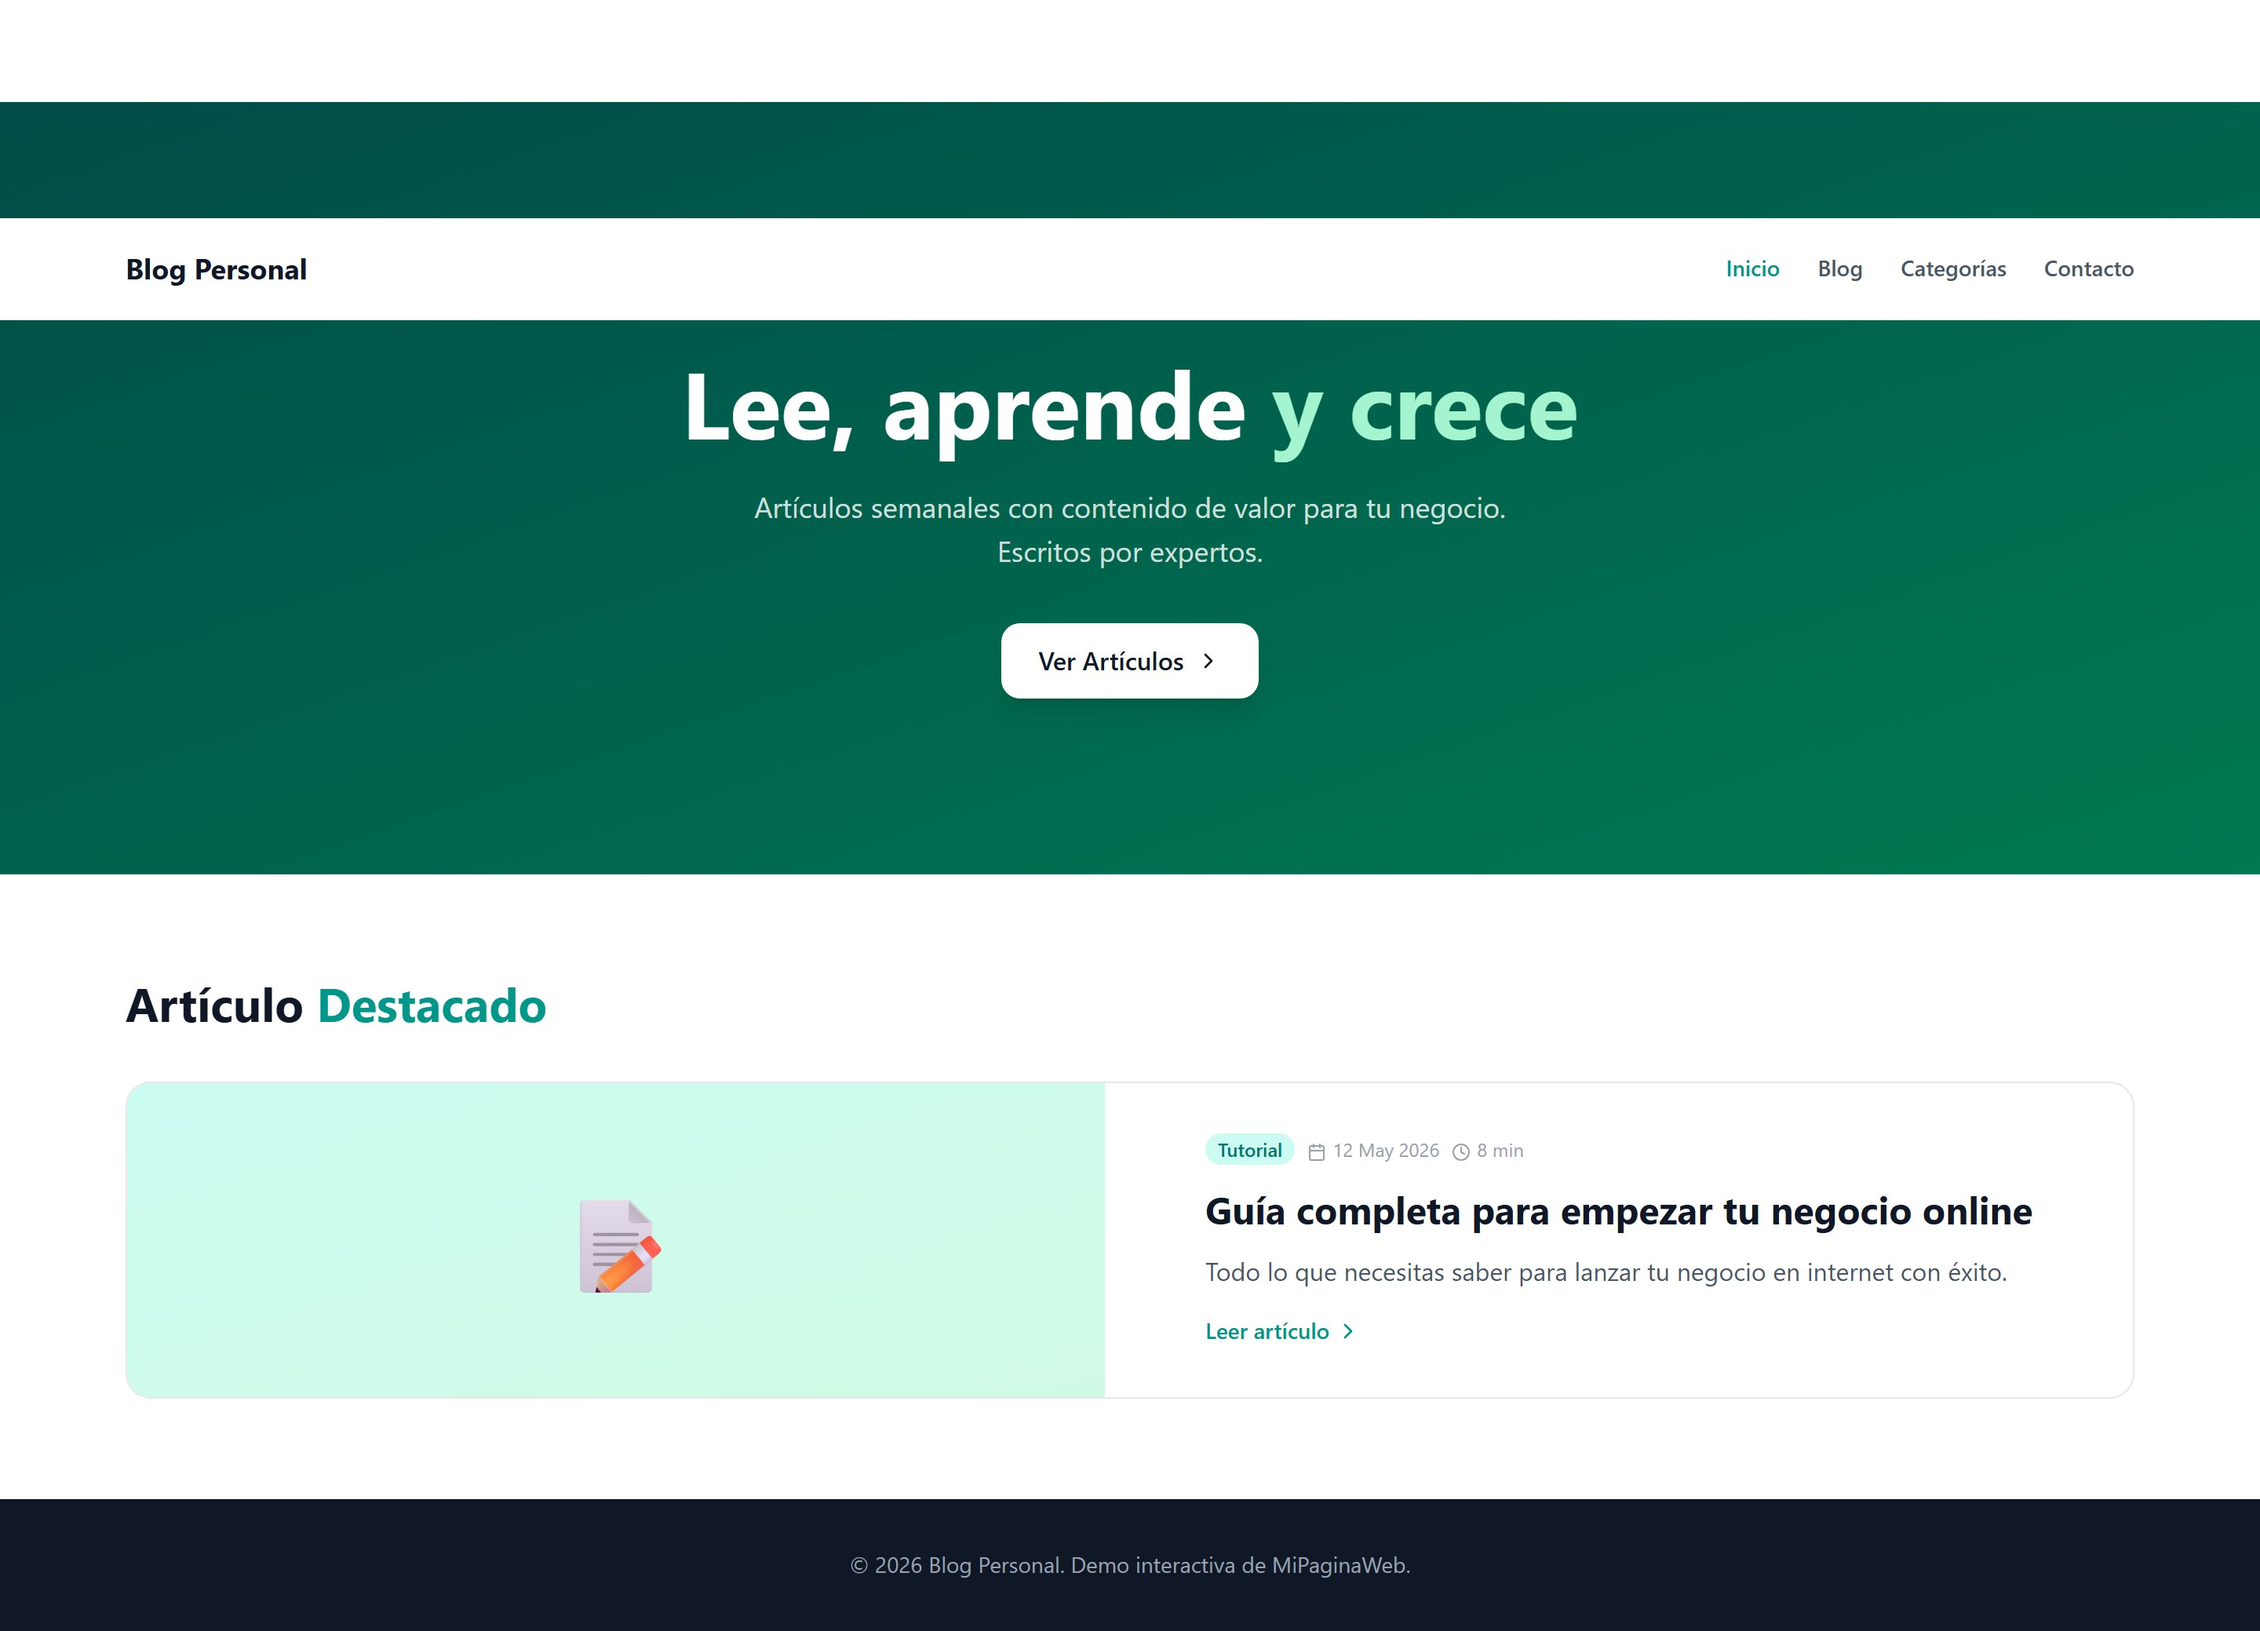
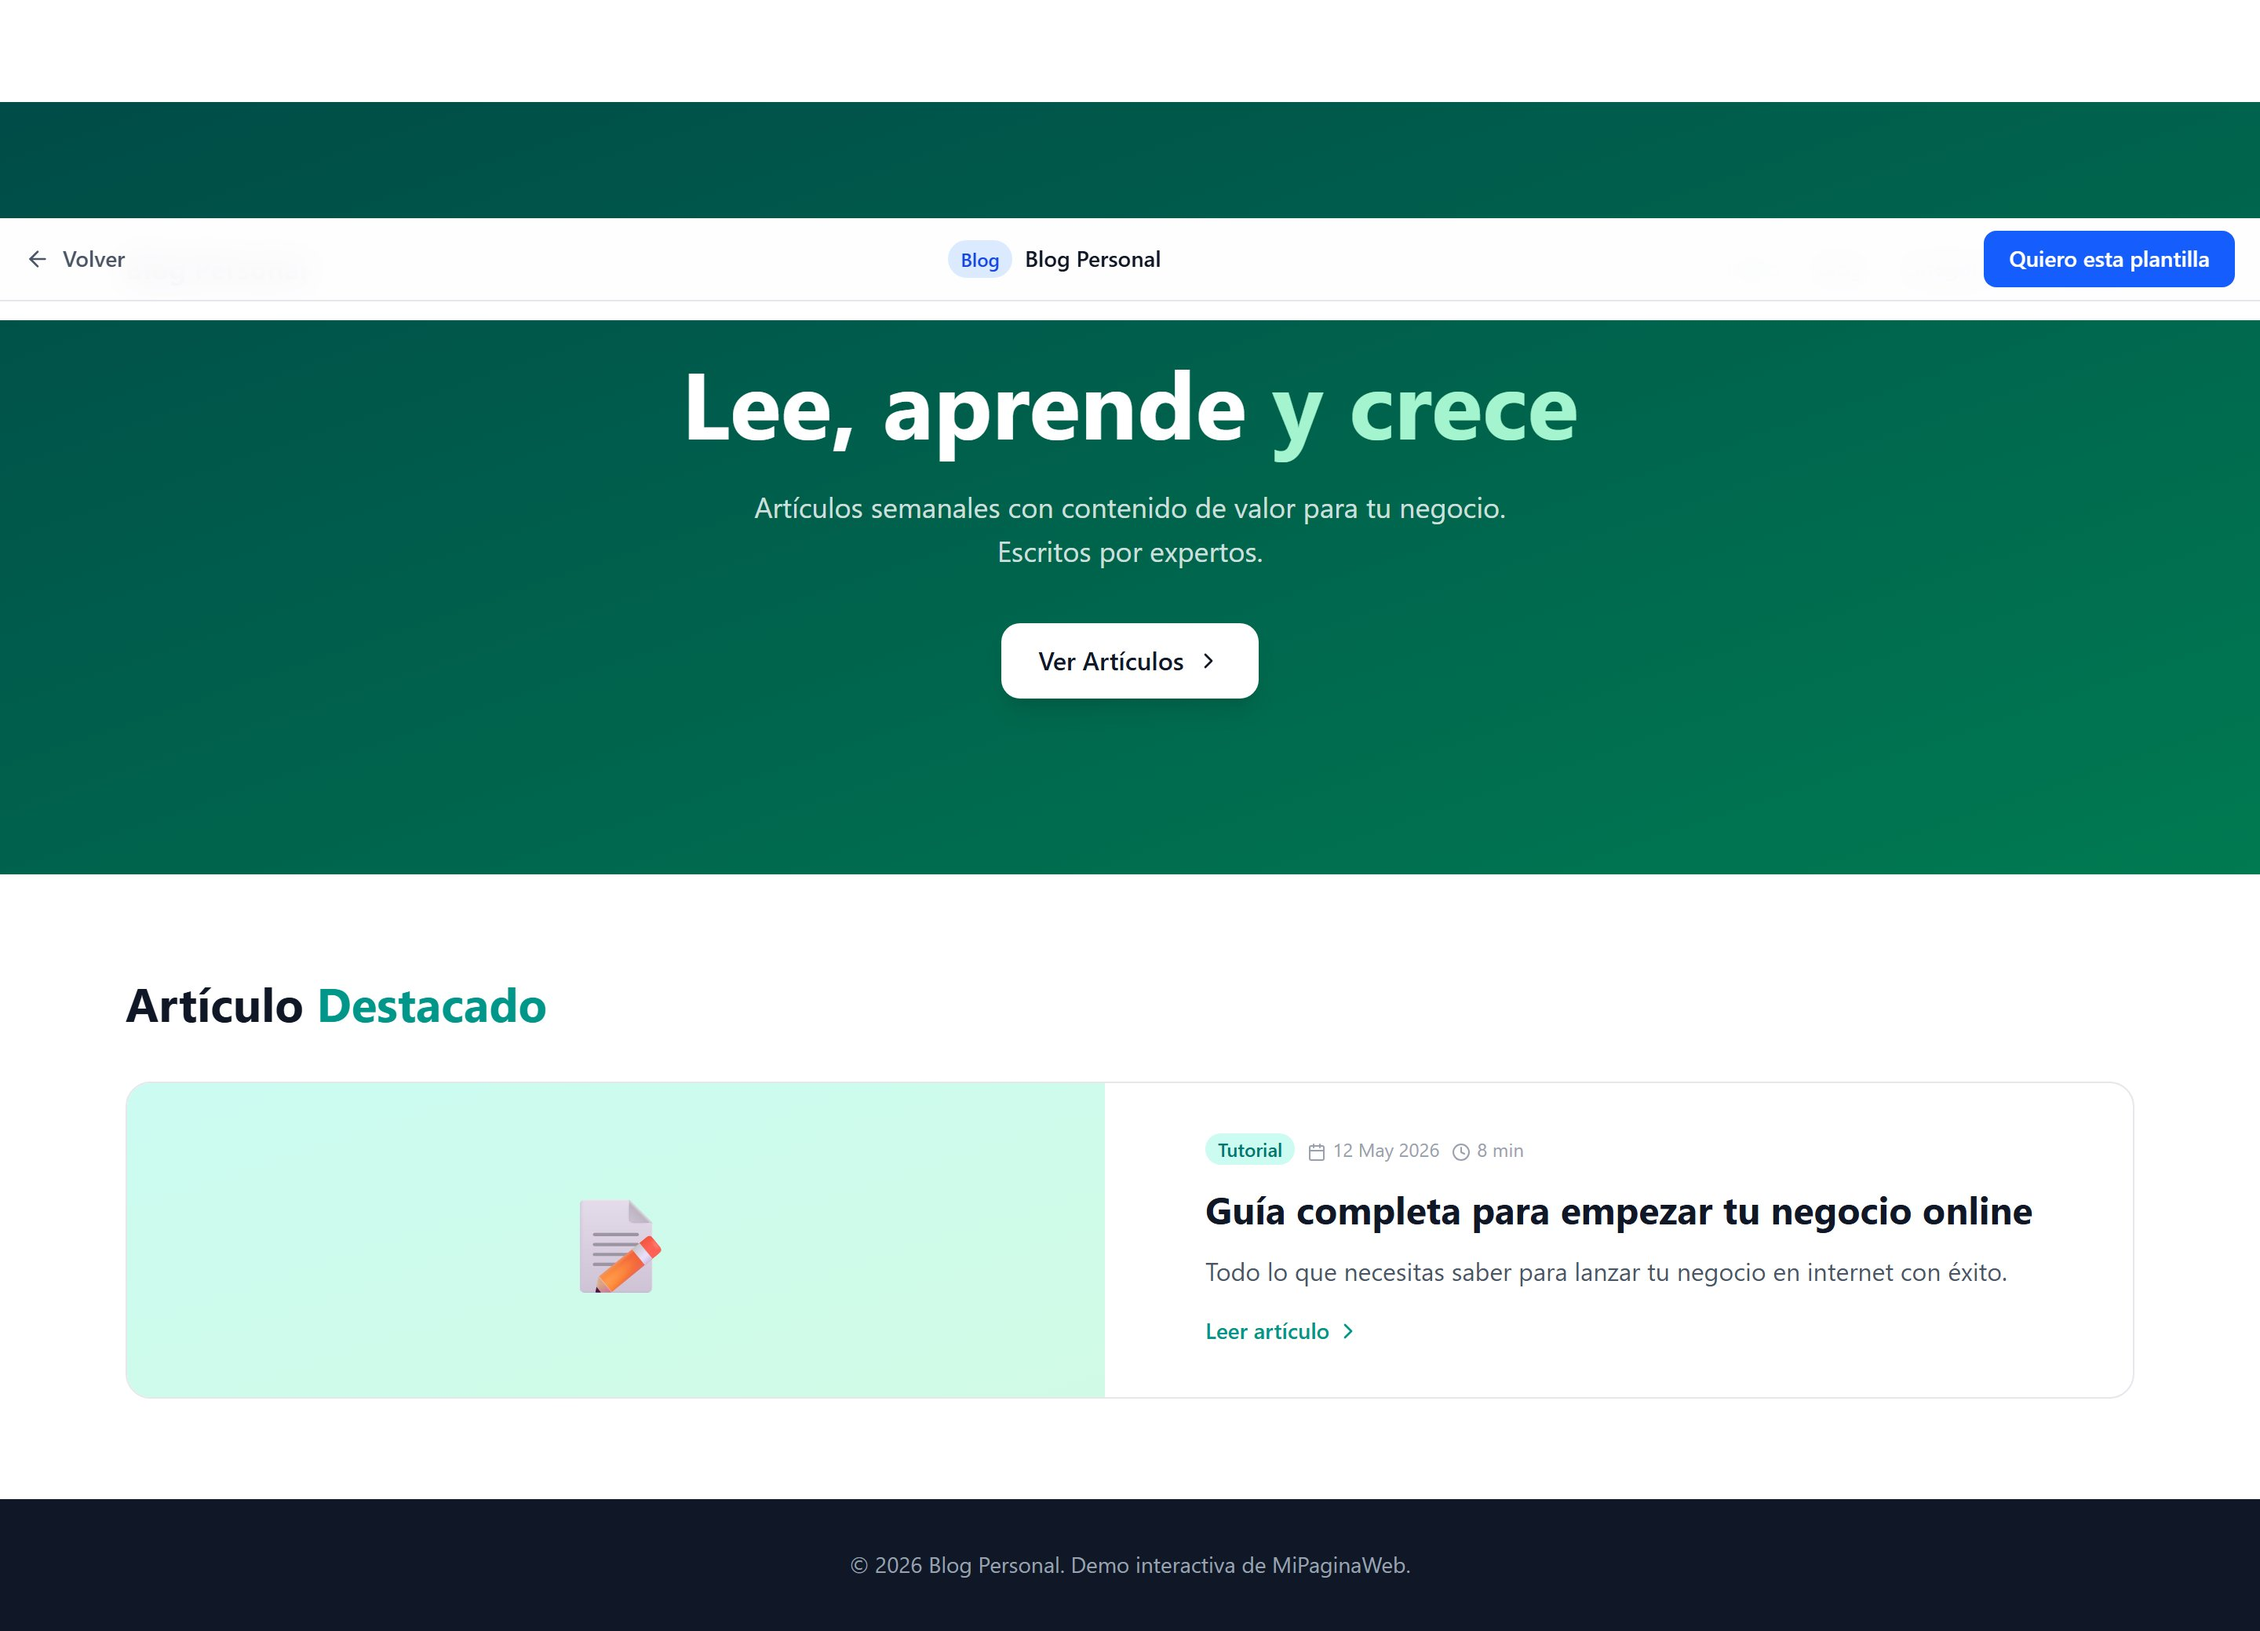
Fix screenshots: capture only demo-content element, no preview bar

diff --git a/src/App.jsx b/src/App.jsx
@@ -239,7 +239,7 @@ function TemplatePreview({ template, onBack }) {
           Quiero esta plantilla
         </a>
       </div>
-      <div className="min-h-[calc(100vh-48px)]">
+      <div id="demo-content" className="min-h-[calc(100vh-48px)]">
         {renderDemo()}
       </div>
     </div>
